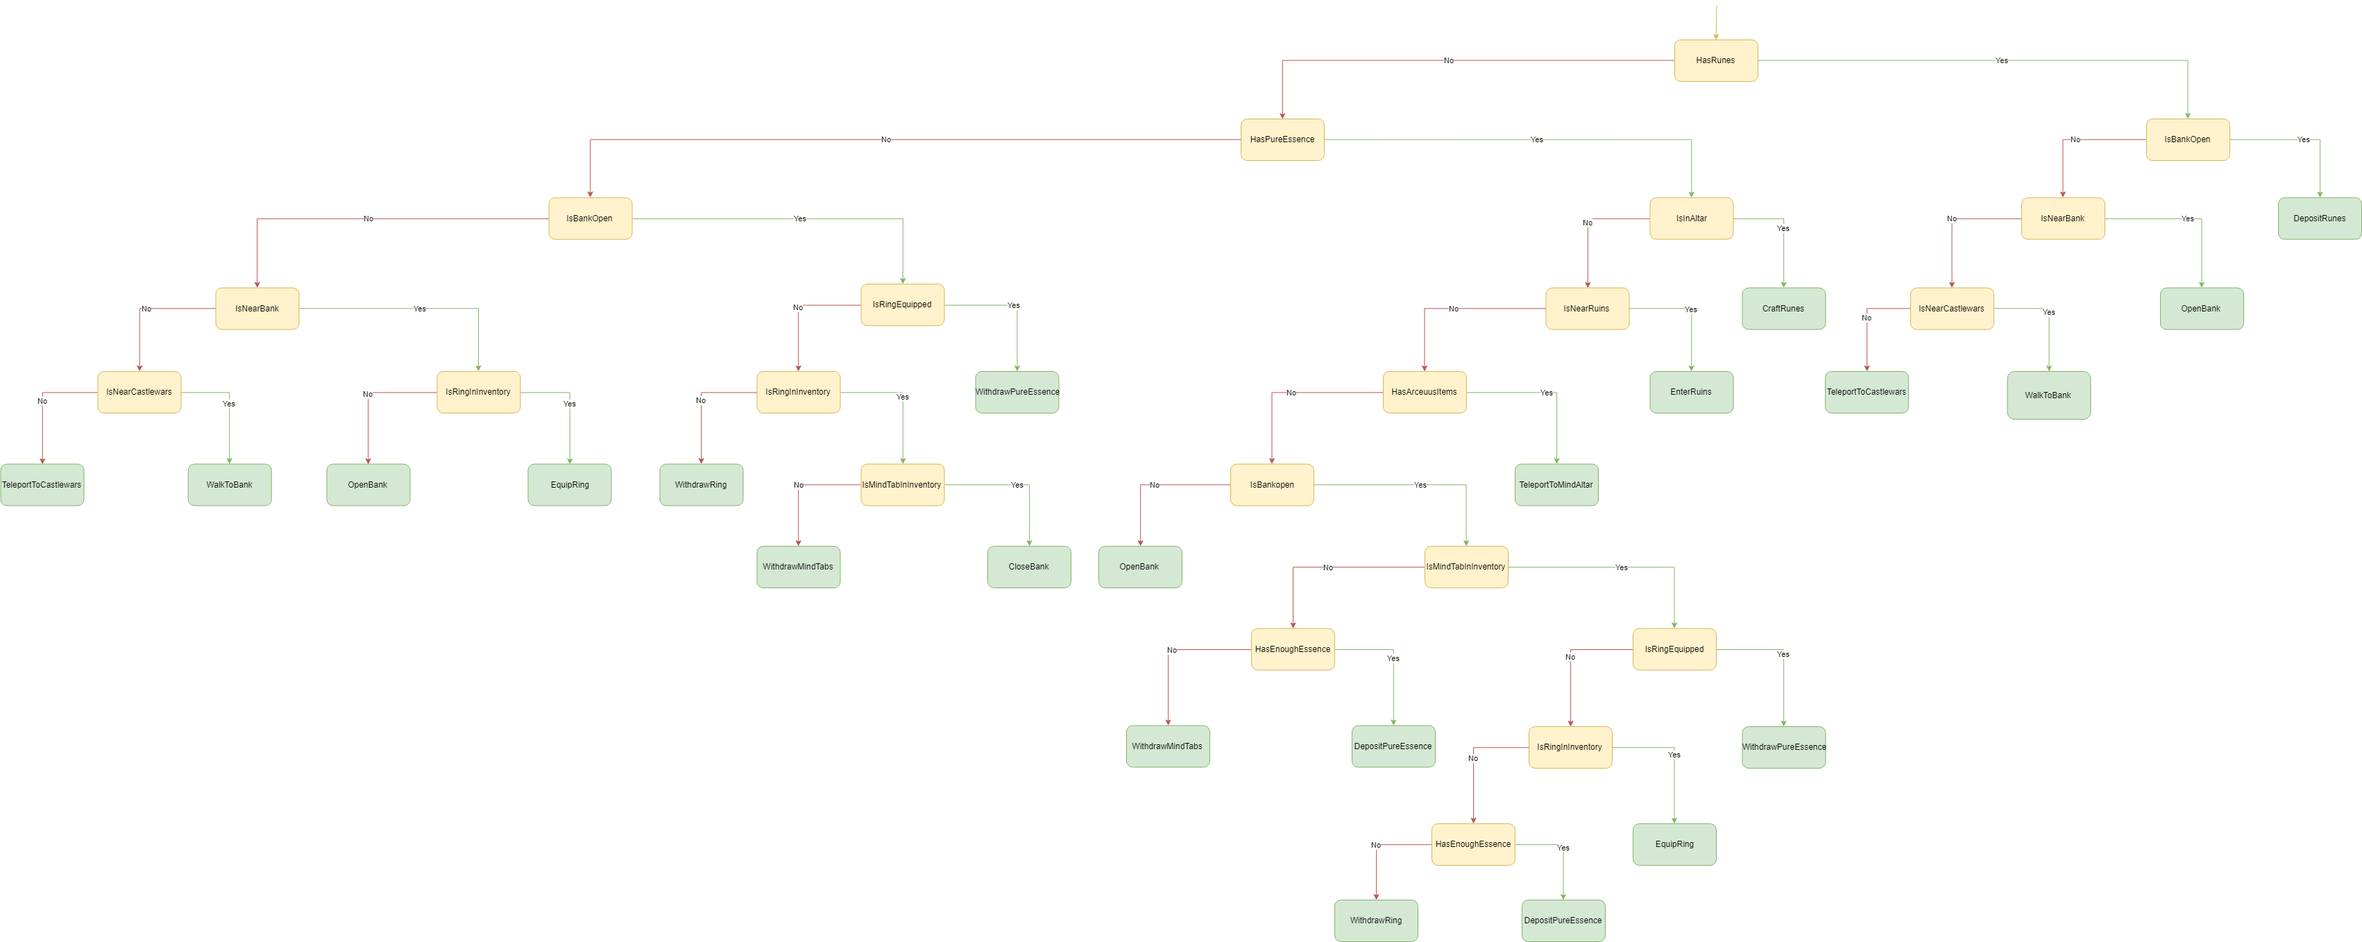
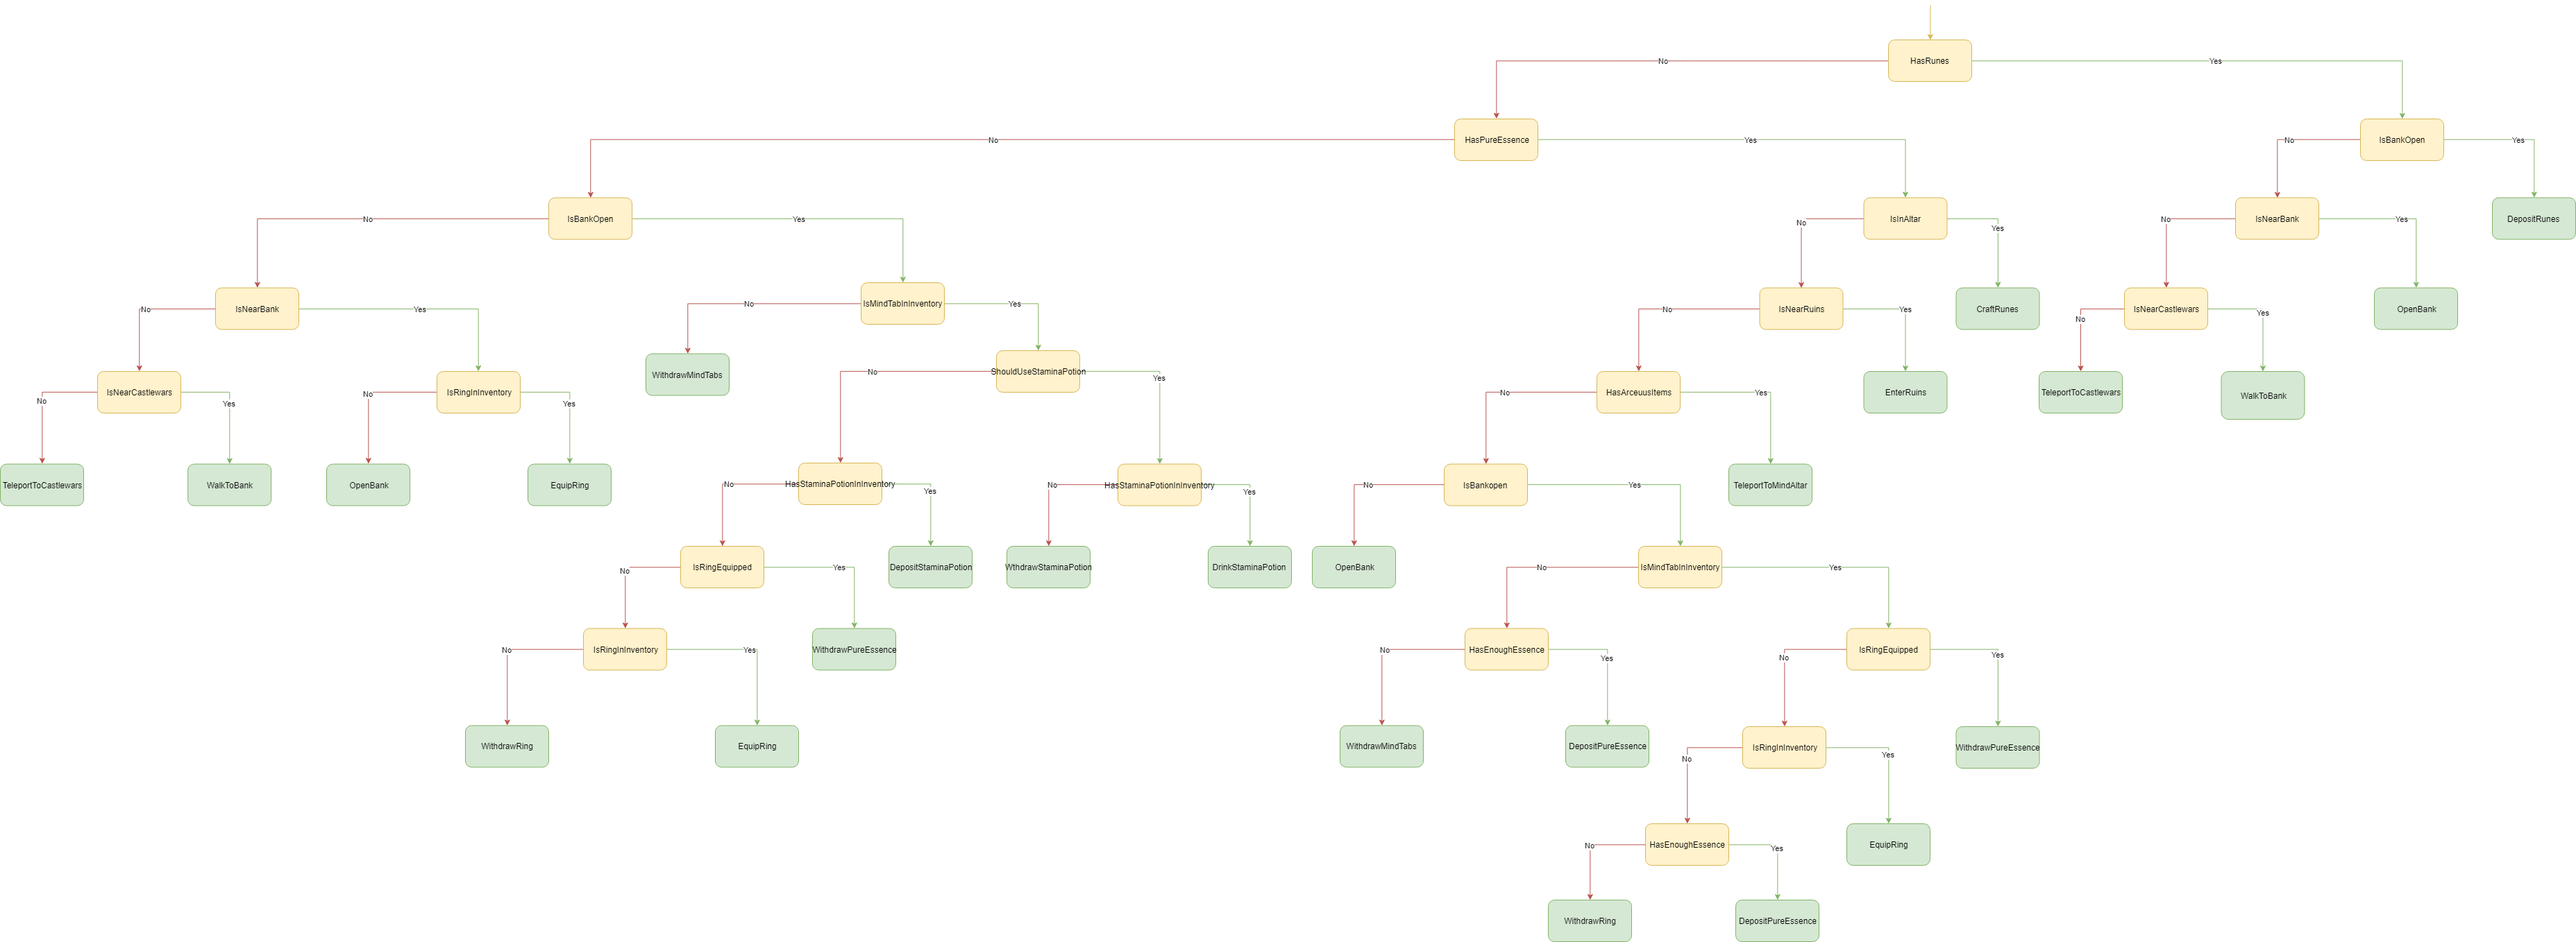
Added stamina potion option to Arceuus Mind method

diff --git a/src/methods/ArceuusMind.java b/src/methods/ArceuusMind.java
@@ -23,20 +23,26 @@ public class ArceuusMind extends CraftMethod {
         fifth = fourth.setRight(new IsRingInInventory());
         fifth.setLeft(new OpenBank());
         fifth.setRight(new EquipRing());
-        fourth = third.setRight(new IsRingEquipped());
-        fifth = fourth.setLeft(new IsRingInInventory());
-        fifth.setLeft(new WithdrawRing());
-        TreeTask sixth = fifth.setRight(new IsMindTabInInventory());
-        sixth.setLeft(new WithdrawMindTabs());
-        sixth.setRight(new CloseBank());
-        fourth.setRight(new WithdrawPureEssence());
+        fourth = third.setRight(new IsMindTabInInventory());
+        fourth.setLeft(new WithdrawMindTabs());
+        fifth = fourth.setRight(new ShouldUseStaminaPotion(handler));
+        TreeTask sixth = fifth.setLeft(new HasStaminaPotionInInventory());
+        TreeTask seventh = sixth.setLeft(new IsRingEquipped());
+        TreeTask eighth = seventh.setLeft(new IsRingInInventory());
+        eighth.setLeft(new WithdrawRing());
+        eighth.setRight(new EquipRing());
+        seventh.setRight(new WithdrawPureEssence());
+        sixth.setRight(new DepositStaminaPotion());
+        sixth = fifth.setRight(new HasStaminaPotionInInventory());
+        sixth.setLeft(new WithdrawStaminaPotion());
+        sixth.setRight(new DrinkStaminaPotion());
         third = second.setRight(new IsInAltar(handler));
         fourth = third.setLeft(new IsNearRuins(handler));
         fifth = fourth.setLeft(new HasArceuusItems());
         sixth = fifth.setLeft(new IsBankOpen());
         sixth.setLeft(new OpenBank());
-        TreeTask seventh = sixth.setRight(new IsMindTabInInventory());
-        TreeTask eighth = seventh.setLeft(new HasEnoughEssence());
+        seventh = sixth.setRight(new IsMindTabInInventory());
+        eighth = seventh.setLeft(new HasEnoughEssence());
         eighth.setLeft(new WithdrawMindTabs());
         eighth.setRight(new DepositPureEssence());
         eighth = seventh.setRight(new IsRingEquipped());

diff --git a/src/display/RunecraftGUI.java b/src/display/RunecraftGUI.java
@@ -25,6 +25,8 @@ public class RunecraftGUI extends JFrame {
     private JCheckBox giantPouchCheckBox;
     private JPanel traversalSelection;
     private JComboBox<AbyssLoadouts> traversalChoice;
+    private JCheckBox useOfStaminaPotionsCheckBox;
+    private JPanel staminaPanel;
     private Class<?> craftClass;
     private boolean hasBeenSet;
 
@@ -42,7 +44,9 @@ public class RunecraftGUI extends JFrame {
             traversalChoice.addItem(loadout);
         abyssPanel.setVisible(false);
         methodChoice.addActionListener(e -> {
-            abyssPanel.setVisible(Objects.requireNonNull(methodChoice.getSelectedItem()).equals(CraftMethods.ABYSS));
+            final boolean isAbyssVisible = Objects.requireNonNull(methodChoice.getSelectedItem()).equals(CraftMethods.ABYSS);
+            staminaPanel.setVisible(!isAbyssVisible);
+            abyssPanel.setVisible(isAbyssVisible);
             pack();
         });
         startButton.addActionListener(e -> {
@@ -65,6 +69,7 @@ public class RunecraftGUI extends JFrame {
     }
 
     public CraftMethod getMethod(final TreeScript handler) {
+        if (useOfStaminaPotionsCheckBox.isSelected()) handler.addNotedSetting("stamina");
         if (abyssPanel.isVisible()) {
             if (smallPouchCheckBox.isSelected()) handler.addNotedSetting("Small pouch");
             if (mediumPouchCheckBox.isSelected()) handler.addNotedSetting("Medium pouch");

diff --git a/src/tasks/DrinkStaminaPotion.java b/src/tasks/DrinkStaminaPotion.java
@@ -1,0 +1,34 @@
+package tasks;
+
+import org.rspeer.runetek.adapter.component.Item;
+import org.rspeer.runetek.api.commons.Time;
+import org.rspeer.runetek.api.component.tab.Inventory;
+import org.rspeer.runetek.api.movement.Movement;
+import task_structure.TreeTask;
+
+public class DrinkStaminaPotion extends TreeTask {
+    public DrinkStaminaPotion() {
+        super(true);
+    }
+
+    @Override
+    public boolean validate() {
+        return false;
+    }
+
+    @Override
+    public int execute() {
+        final Item staminaPotion = Inventory.getFirst(item -> item.getName().contains("Stamina potion"));
+        if (staminaPotion != null) {
+            final int runEnergy = Movement.getRunEnergy();
+            staminaPotion.interact("Drink");
+            Time.sleepUntil(() -> Movement.getRunEnergy() > runEnergy, 2000);
+        }
+        return super.execute();
+    }
+
+    @Override
+    public String toString() {
+        return "Drinking stamina potion";
+    }
+}

diff --git a/src/tasks/DepositStaminaPotion.java b/src/tasks/DepositStaminaPotion.java
@@ -1,0 +1,34 @@
+package tasks;
+
+import org.rspeer.runetek.api.commons.Time;
+import org.rspeer.runetek.api.component.Bank;
+import org.rspeer.runetek.api.component.tab.Inventory;
+import task_structure.TreeTask;
+
+import java.util.regex.Pattern;
+
+public class DepositStaminaPotion extends TreeTask {
+    private final Pattern staminaPattern;
+
+    public DepositStaminaPotion() {
+        super(true);
+        staminaPattern = Pattern.compile("(Stamina potion\\(\\d\\)|Vial)");
+    }
+
+    @Override
+    public boolean validate() {
+        return false;
+    }
+
+    @Override
+    public int execute() {
+        Bank.depositAll(item -> item.getName().matches(staminaPattern.toString()));
+        Time.sleepUntil(() -> !Inventory.contains(staminaPattern), 1500);
+        return super.execute();
+    }
+
+    @Override
+    public String toString() {
+        return "Depositing stamina potion";
+    }
+}

diff --git a/src/tasks/WithdrawStaminaPotion.java b/src/tasks/WithdrawStaminaPotion.java
@@ -1,0 +1,34 @@
+package tasks;
+
+import org.rspeer.runetek.api.commons.Time;
+import org.rspeer.runetek.api.component.Bank;
+import org.rspeer.runetek.api.component.tab.Inventory;
+import task_structure.TreeTask;
+
+import java.util.regex.Pattern;
+
+public class WithdrawStaminaPotion extends TreeTask {
+    private final Pattern staminaPattern;
+
+    public WithdrawStaminaPotion() {
+        super(true);
+        staminaPattern = Pattern.compile("Stamina potion\\(\\d\\)");
+    }
+
+    @Override
+    public boolean validate() {
+        return false;
+    }
+
+    @Override
+    public int execute() {
+        Bank.withdraw(item -> item.getName().contains("Stamina potion"), 1);
+        Time.sleepUntil(() -> Inventory.contains(staminaPattern), 1500);
+        return super.execute();
+    }
+
+    @Override
+    public String toString() {
+        return "Withdrawing stamina potion";
+    }
+}

diff --git a/src/tasks/ShouldUseStaminaPotion.java b/src/tasks/ShouldUseStaminaPotion.java
@@ -1,0 +1,20 @@
+package tasks;
+
+import org.rspeer.runetek.api.movement.Movement;
+import task_structure.TreeScript;
+import task_structure.TreeTask;
+
+public class ShouldUseStaminaPotion extends TreeTask {
+    private static final int STAMINA_THRESHOLD = 40, STAMINA_BIT = 1575;
+    private final TreeScript handler;
+
+    public ShouldUseStaminaPotion(final TreeScript handler) {
+        super(false);
+        this.handler = handler;
+    }
+
+    @Override
+    public boolean validate() {
+        return handler.getNotedSetting("stamina") && Movement.getRunEnergy() <= STAMINA_THRESHOLD;
+    }
+}

diff --git a/src/tasks/TraverseObstacle.java b/src/tasks/TraverseObstacle.java
@@ -27,7 +27,7 @@ public class TraverseObstacle extends TreeTask {
     public int execute() {
         final SceneObject obstacle = SceneObjects.getNearest(traversable -> {
             final String name = traversable.getName();
-            return handler.getNotedSetting(name) && traversable.containsAction(AbyssObstacles.valueOf(name).getAction());
+            return handler.getNotedSetting(name) && traversable.containsAction(AbyssObstacles.valueOf(name.toUpperCase()).getAction());
         });
         if (obstacle == null)
             return super.execute();

diff --git a/src/tasks/HasStaminaPotionInInventory.java b/src/tasks/HasStaminaPotionInInventory.java
@@ -1,0 +1,20 @@
+package tasks;
+
+import org.rspeer.runetek.api.component.tab.Inventory;
+import task_structure.TreeTask;
+
+import java.util.regex.Pattern;
+
+public class HasStaminaPotionInInventory extends TreeTask {
+    private final Pattern staminaPattern;
+
+    public HasStaminaPotionInInventory() {
+        super(false);
+        staminaPattern = Pattern.compile("(Stamina potion\\(\\d\\)|Vial)");
+    }
+
+    @Override
+    public boolean validate() {
+        return Inventory.contains(staminaPattern);
+    }
+}

diff --git a/src/tasks/WithdrawMindTabs.java b/src/tasks/WithdrawMindTabs.java
@@ -4,6 +4,7 @@ import org.rspeer.runetek.api.commons.Time;
 import org.rspeer.runetek.api.commons.math.Random;
 import org.rspeer.runetek.api.component.Bank;
 import org.rspeer.runetek.api.component.tab.Inventory;
+import org.rspeer.runetek.api.scene.Players;
 import task_structure.TreeTask;
 
 public class WithdrawMindTabs extends TreeTask {
